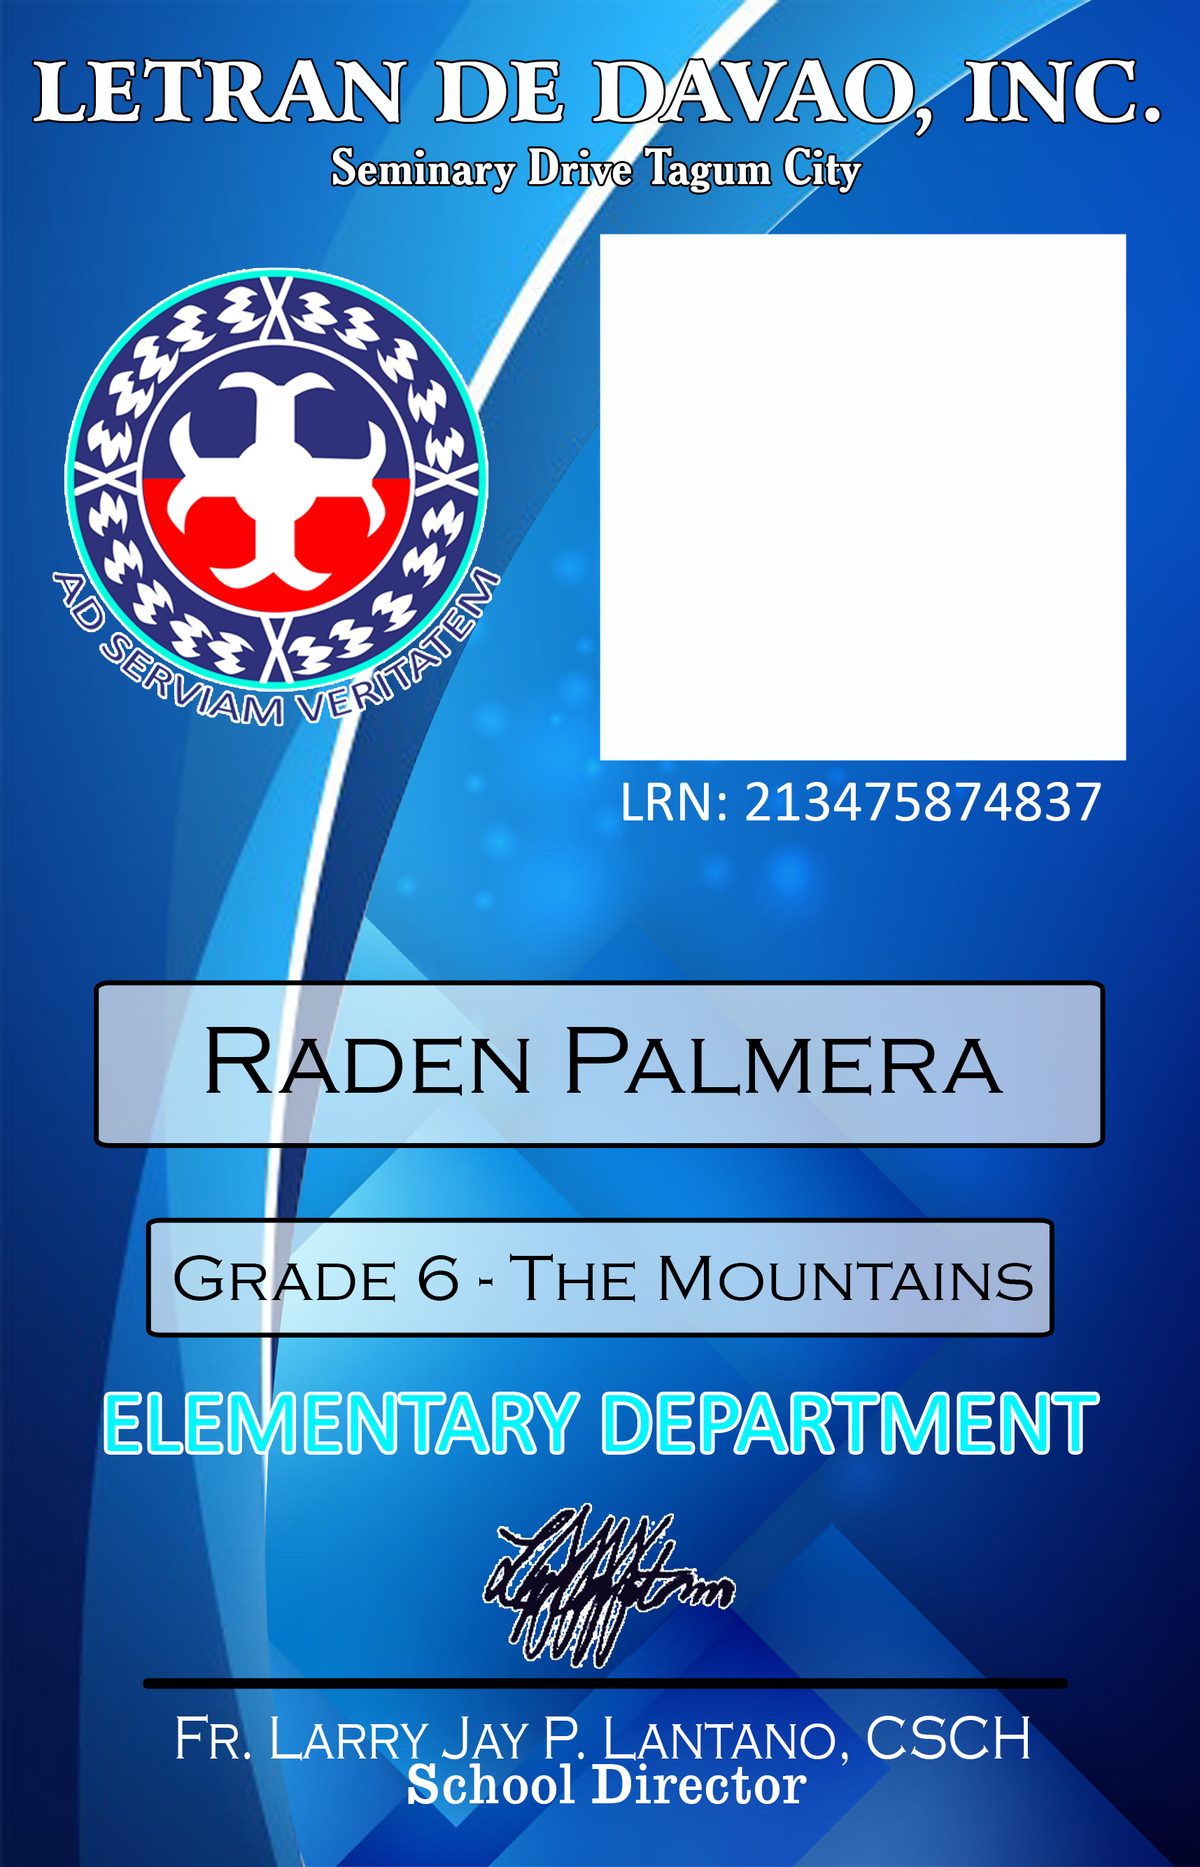
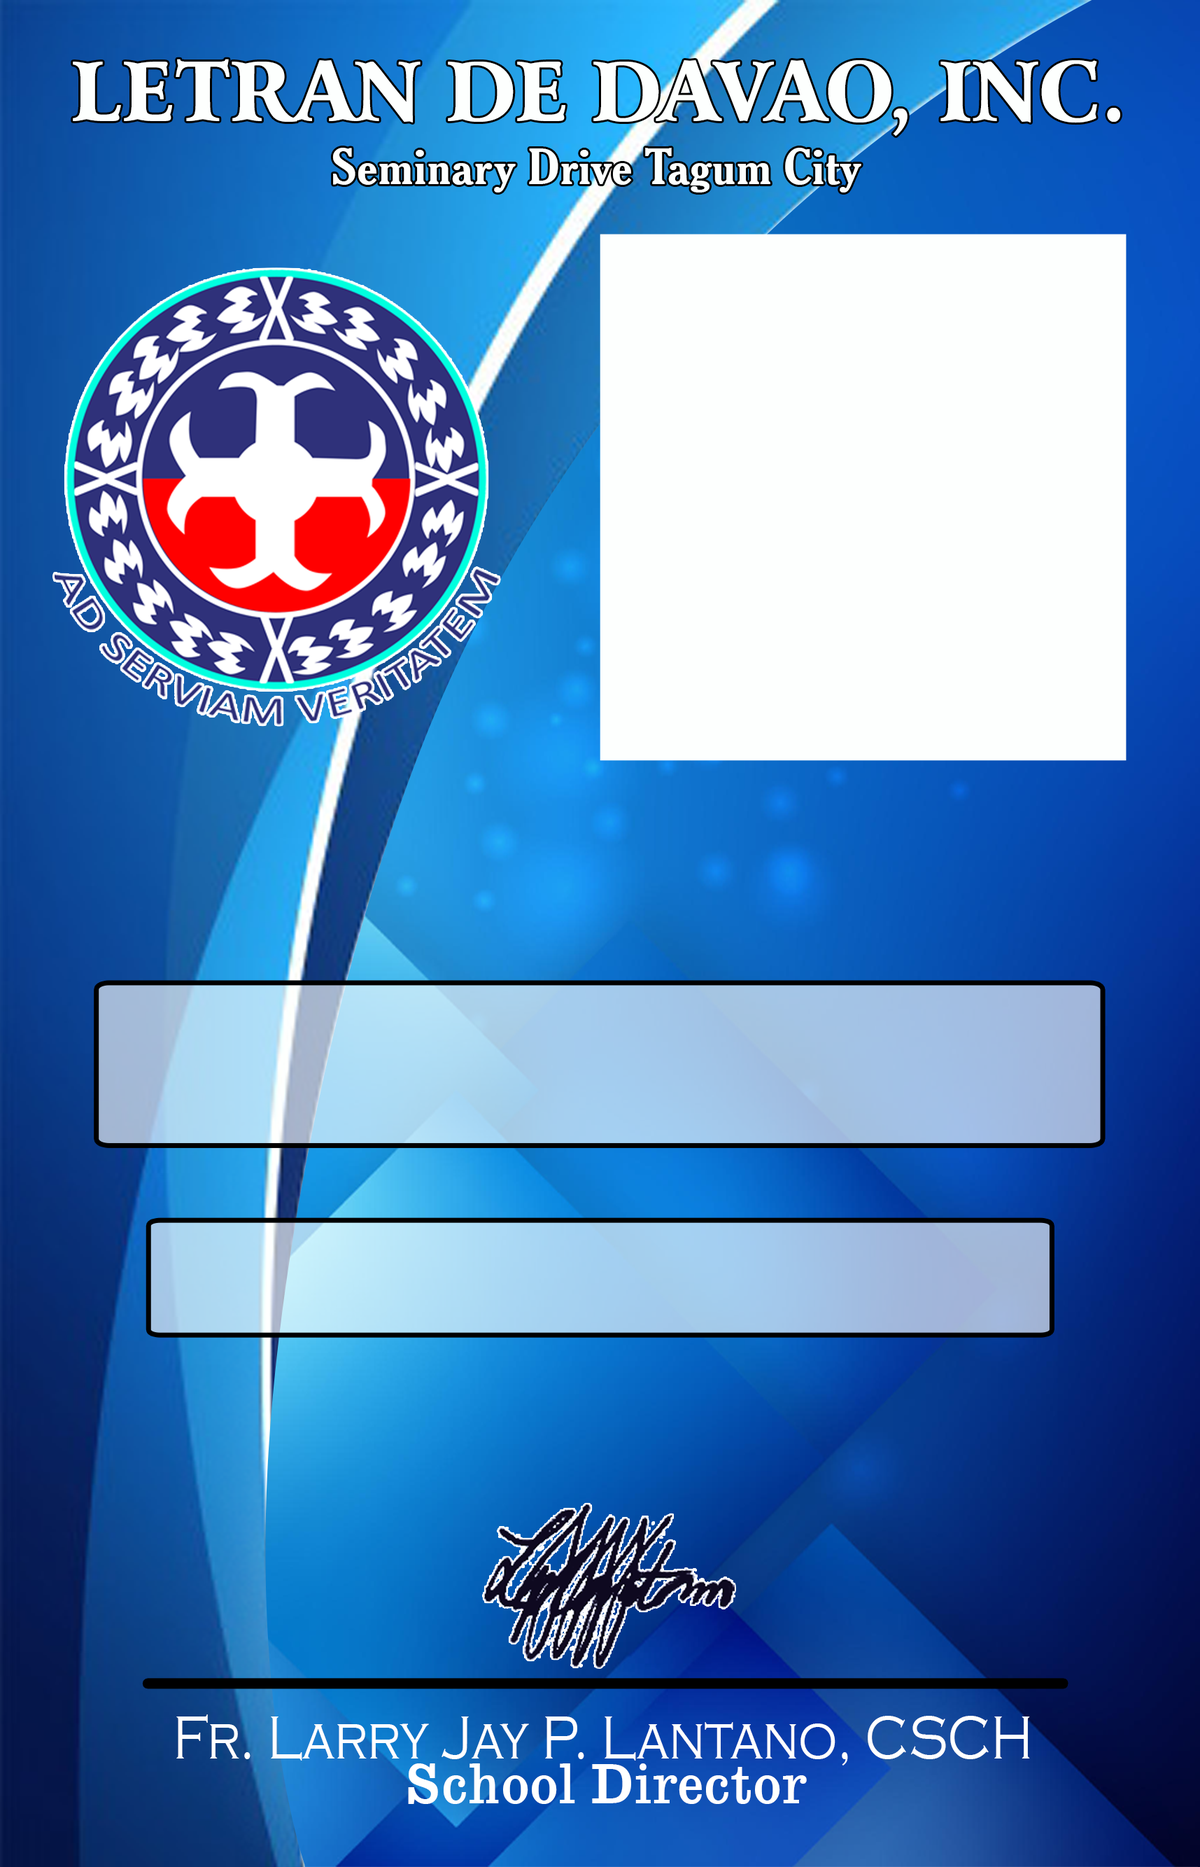
Add student Type

diff --git a/index.php b/index.php
@@ -20,18 +20,6 @@
   <br>
     
     <div class="container">
-    <div class="alert alert-success alert-dismissible fade show" role="alert" ng-if="hasCreatedId" ng-cloak>
-        <strong>Success!</strong> The ID has been generated. <a ng-href="created-id.pdf?lrn={{formData.lrn}}" target="_blank" ng-if="hasCreatedId">Click here to view the ID.</a>
-        <button type="button" class="close" data-dismiss="alert" aria-label="Close">
-            <span aria-hidden="true">&times;</span>
-        </button>
-    </div>
-    <div class="alert alert-danger alert-dismissible fade show" role="alert" ng-if="hasError" ng-cloak>
-        <strong>Error!</strong> LRN must be filled up.
-        <button type="button" class="close" data-dismiss="alert" aria-label="Close">
-            <span aria-hidden="true">&times;</span>
-        </button>
-    </div>
         <h1 style="text-align:center">Generate ID</h1>
         <br>
         <div class="row">
@@ -40,49 +28,73 @@
                     <div class="form-group">
                         <label for="lrn">LRN</label>
                         <div class="input-group mb-3">
-                            <input type="text" class="form-control" id="lrn" ng-model="formData.lrn" placeholder="Enter LRN">
+                            <input type="text" class="form-control" id="lrn" ng-model="formData.lrn" placeholder="Enter LRN"  ng-class="{'is-invalid': checkLrn() }" required>
+                            <div class="invalid-feedback">
+                                LRN must be a number and has 12 digits
+                            </div>
                         </div>
                     </div>
                     
                     <div class="form-group">
+                        <label for="students_name">Student Type</label>
+                        <div class="input-group mb-3">
+                            <!-- <input type="text" class="form-control" id="students_type" ng-model="formData.students_type" placeholder="Enter Student Type" > -->
+
+                            <div class="form-control">
+                                <input class="form-control-input" type="radio" ng-model="formData.students_type" id="exampleRadios1" value="ELEMENTARY DEPARTMENT" required>
+                                <label class="form-control-label" for="exampleRadios1">
+                                    ELEMENTARY
+                                </label>
+                            </div>
+                            <div class="form-control">
+                                <input class="form-control-input" type="radio" ng-model="formData.students_type" id="exampleRadios2" value="HIGH SCHOOL DEPARTMENT">
+                                <label class="form-control-label" for="exampleRadios2">
+                                    HIGH SCHOOL
+                                </label>
+                            </div>
+                        </div>
+                    </div>
+
+                    <div class="form-group">
                         <label for="students_name">Student's Name</label>
                         <div class="input-group mb-3">
-                            <input type="text" class="form-control" id="students_name" ng-model="formData.students_name" placeholder="Enter Student's Name">
+                            <input type="text" class="form-control" id="students_name" ng-model="formData.students_name" placeholder="Enter Student's Name" required>
                         </div>
                     </div>
 
                     <div class="form-group">
                         <label for="students_grade">Student's Grade</label>
                         <div class="input-group mb-3">
-                            <input type="text" class="form-control" id="students_grade" ng-model="formData.students_grade" placeholder="Enter Student's Grade">
+                            <input type="text" class="form-control" id="students_grade" ng-model="formData.students_grade" placeholder="Enter Student's Grade" required>
                         </div>
                     </div>
 
                     <div class="form-group">
                         <label for="guardians_name">Guardian's Name</label>
                         <div class="input-group mb-3">
-                            <input type="text" class="form-control" id="guardians_name" ng-model="formData.guardians_name" placeholder="Enter Guardian's Name">
+                            <input type="text" class="form-control" id="guardians_name" ng-model="formData.guardians_name" placeholder="Enter Guardian's Name" required>
                         </div>
                     </div>
 
                     <div class="form-group">
                         <label for="guardians_address">Guardian's Address</label>
                         <div class="input-group mb-3">
-                            <input type="text" class="form-control" id="guardians_address" ng-model="formData.guardians_address" placeholder="Enter Guardian's Address">
+                            <input type="text" class="form-control" id="guardians_address" ng-model="formData.guardians_address" placeholder="Enter Guardian's Address" required>
                         </div>
                     </div>
 
                     <div class="form-group">
                         <label for="guardians_number">Guardian's Contact Number</label>
                         <div class="input-group mb-3">
-                            <input type="text" class="form-control" id="guardians_number" ng-model="formData.guardians_number" placeholder="Enter Guardian's Contact Number">
+                            <input type="text" class="form-control" id="guardians_number" ng-model="formData.guardians_number" placeholder="Enter Guardian's Contact Number"  ng-class="{'is-invalid': checkContactNumber() }"  required>
+                            <div class="invalid-feedback">
+                                Contact Number must be a number and has 11 digits
+                            </div>
                         </div>
                     </div>
 
                     <button type="submit" class="btn btn-primary" ng-click="createId()">Generate</button>
-                    
 
-                    
                 </form>
             </div>
 
@@ -91,48 +103,67 @@
                     <div class="form-group">
                         <label for="lrn">LRN Font Size</label>
                         <div class="input-group mb-3">
-                            <input type="text" class="form-control" id="lrn" ng-model="settings.lrn.font_size" placeholder="Enter LRN Font Size">
+                            <input type="text" class="form-control" id="lrn" ng-model="settings.lrn.font_size" placeholder="Enter LRN Font Size" required>
                         </div>
                     </div>
                     
                     <div class="form-group">
+                        <label for="students_name">Student Type</label>
+                        <div class="input-group mb-3">
+                            <input type="text" class="form-control" id="students_type" ng-model="settings.students_type.font_size" placeholder="Enter Student Type Font Size" required>
+                        </div>
+                    </div>
+
+                    <div class="form-group">
                         <label for="students_name">Student's Name Font Size</label>
                         <div class="input-group mb-3">
-                            <input type="text" class="form-control" id="students_name" ng-model="settings.students_name.font_size" placeholder="Enter Student's Name Font Size">
+                            <input type="text" class="form-control" id="students_name" ng-model="settings.students_name.font_size" placeholder="Enter Student's Name Font Size" required>
                         </div>
                     </div>
 
                     <div class="form-group">
                         <label for="students_grade">Student's Grade Font Size</label>
                         <div class="input-group mb-3">
-                            <input type="text" class="form-control" id="students_grade" ng-model="settings.students_grade.font_size" placeholder="Enter Student's Grade Font Size">
+                            <input type="text" class="form-control" id="students_grade" ng-model="settings.students_grade.font_size" placeholder="Enter Student's Grade Font Size" required>
                         </div>
                     </div>
 
                     <div class="form-group">
                         <label for="guardians_name">Guardian's Name Font Size</label>
                         <div class="input-group mb-3">
-                            <input type="text" class="form-control" id="guardians_name" ng-model="settings.guardians_name.font_size" placeholder="Enter Guardian's Name Font Size">
+                            <input type="text" class="form-control" id="guardians_name" ng-model="settings.guardians_name.font_size" placeholder="Enter Guardian's Name Font Size" required>
                         </div>
                     </div>
 
                     <div class="form-group">
                         <label for="guardians_address">Guardian's Address Font Size</label>
                         <div class="input-group mb-3">
-                            <input type="text" class="form-control" id="guardians_address" ng-model="settings.guardians_address.font_size" placeholder="Enter Guardian's Address Font Size">
+                            <input type="text" class="form-control" id="guardians_address" ng-model="settings.guardians_address.font_size" placeholder="Enter Guardian's Address Font Size" required>
                         </div>
                     </div>
 
                     <div class="form-group">
                         <label for="guardians_number">Guardian's Contact Number Font Size</label>
                         <div class="input-group mb-3">
-                            <input type="text" class="form-control" id="guardians_number" ng-model="settings.guardians_number.font_size" placeholder="Enter Guardian's Contact Number Font Size">
+                            <input type="text" class="form-control" id="guardians_number" ng-model="settings.guardians_number.font_size" placeholder="Enter Guardian's Contact Number Font Size" required>
                         </div>
                     </div>
                     
                 </form>
             </div>
+
+            <br>
+            <br>
+            <br>
+            <br>
+
         </div>
+            <div class="alert alert-success alert-dismissible fade show" role="alert" ng-if="hasCreatedId" ng-cloak>
+                <strong>Success!</strong> The ID has been generated. <a ng-href="created-id.pdf?lrn={{createdLrn}}" ng-if="hasCreatedId">If the download doesn't start automatically in a few seconds, please click here.</a>
+                <button type="button" class="close" data-dismiss="alert" aria-label="Close">
+                    <span aria-hidden="true">&times;</span>
+                </button>
+            </div>
         <hr>
         <h1 style="text-align:center">View Generated ID</h1>
         <br>
@@ -167,10 +198,13 @@
     app.controller('myCtrl', function($scope,$http, $sce, $window) {
         
         $scope.formData = {};
+        $scope.formData.students_type = null;
+        $scope.createdLrn = '';
         $scope.settings = {
-            lrn: {position: {'top': 121.8, 'left': 273.4}, font_size: 8},
-            students_name: {position: {'top': 153.6, 'left': 205.8}, font_size: 13.32},
-            students_grade: {position: {'top': 186.6, 'left': 212.8}, font_size: 9},
+            lrn: {position: {'top': 121.8, 'left': 278.4}, font_size: 8},
+            students_name: {position: {'top': 153.6, 'left': 208.8}, font_size: 13.32},
+            students_grade: {position: {'top': 186.6, 'left': 215.8}, font_size: 9},
+            students_type: {position: {'top': 207, 'left': 196}, font_size: 11.98},
             guardians_name: {position: {'top': 59.6, 'left': 25.8}, font_size: 11.73},
             guardians_address: {position: {'top': 74.1, 'left': 25.6}, font_size: 11.73},
             guardians_number: {position: {'top': 88.6, 'left': 25.8}, font_size: 11.73}
@@ -184,9 +218,16 @@
             window.open("created-id.pdf?lrn=" + $scope.viewLrn);
         }
 
+        $scope.checkContactNumber = function() {
+            return $scope.formData.guardians_number.length != 11 || isNaN($scope.formData.guardians_number);
+        }
+        $scope.checkLrn = function() {
+            return $scope.formData.lrn.length != 12 || isNaN($scope.formData.lrn);
+        }
+
         $scope.createId = function() {
             $scope.hasError = false;
-            if($scope.formData.lrn && $scope.formData.lrn.trim() != ""){
+            if($scope.formData.lrn && $scope.formData.lrn.trim() != "" && !$scope.checkContactNumber() && !$scope.checkLrn()){
                 $scope.hasCreatedId = false;
                 $http({
                     method: 'POST',
@@ -201,6 +242,10 @@
                 }).then(function(response) {
                     console.log(response);
                     $scope.hasCreatedId = true;
+                    $scope.createdLrn = $scope.formData.lrn;
+                    window.location = "created-id.pdf?lrn="+$scope.createdLrn;
+                    $scope.formData = {};
+                    $scope.formData.students_type = null;
                     // window.open("created-id.pdf?lrn=" + response.data.lrn.value,'newwindow','width=900,height=400');
                 }, function(rejection) {
                     $scope.submit = false;

diff --git a/create-id.php b/create-id.php
@@ -1,24 +1,28 @@
 <?php
 
 if($_POST){
-    $lrn = isset($_POST['formData']['lrn']) ? $_POST['formData']['lrn'] : "";
-    $students_name = isset($_POST['formData']['students_name']) ? $_POST['formData']['students_name'] : "";
-    $students_grade = isset($_POST['formData']['students_grade']) ? $_POST['formData']['students_grade'] : "";
-    $guardians_name = isset($_POST['formData']['guardians_name']) ? $_POST['formData']['guardians_name'] : "";
-    $guardians_address = isset($_POST['formData']['guardians_address']) ? $_POST['formData']['guardians_address'] : "";
-    $guardians_number = isset($_POST['formData']['guardians_number']) ? $_POST['formData']['guardians_number'] : "";
+    $lrn = isset($_POST['formData']['lrn']) ? trim($_POST['formData']['lrn']) : "";
+    $students_name = isset($_POST['formData']['students_name']) ? trim($_POST['formData']['students_name']) : "";
+    $students_grade = isset($_POST['formData']['students_grade']) ? trim($_POST['formData']['students_grade']) : "";
+    $students_type = isset($_POST['formData']['students_type']) ? trim($_POST['formData']['students_type']) : "";
+    $guardians_name = isset($_POST['formData']['guardians_name']) ? trim($_POST['formData']['guardians_name']) : "";
+    $guardians_address = isset($_POST['formData']['guardians_address']) ? trim($_POST['formData']['guardians_address']) : "";
+    $guardians_number = isset($_POST['formData']['guardians_number']) ? trim($_POST['formData']['guardians_number']) : "";
 
     $lrn_settings = isset($_POST['settings']['lrn']) ? $_POST['settings']['lrn'] : array();
     $students_name_settings = isset($_POST['settings']['students_name']) ? $_POST['settings']['students_name'] : array();
     $students_grade_settings = isset($_POST['settings']['students_grade']) ? $_POST['settings']['students_grade'] : array();
+    $students_type_settings = isset($_POST['settings']['students_type']) ? $_POST['settings']['students_type'] : array();
     $guardians_name_settings = isset($_POST['settings']['guardians_name']) ? $_POST['settings']['guardians_name'] : array();
     $guardians_address_settings = isset($_POST['settings']['guardians_address']) ? $_POST['settings']['guardians_address'] : array();
+    $guardians_number_settings = isset($_POST['settings']['guardians_number']) ? $_POST['settings']['guardians_number'] : array();
     $guardians_number_settings = isset($_POST['settings']['guardians_number']) ? $_POST['settings']['guardians_number'] : array();
     
     
     $lrn_settings['value'] = $lrn;
     $students_name_settings['value'] = $students_name;
     $students_grade_settings['value'] = $students_grade;
+    $students_type_settings['value'] = $students_type;
     $guardians_name_settings['value'] = $guardians_name;
     $guardians_address_settings['value'] = $guardians_address;
     $guardians_number_settings['value'] = $guardians_number;
@@ -29,6 +33,7 @@ if($_POST){
         'lrn' => $lrn_settings,
         'students_name' => $students_name_settings,
         'students_grade' => $students_grade_settings,
+        'students_type' => $students_type_settings,
         'guardians_name' => $guardians_name_settings,
         'guardians_address' => $guardians_address_settings,
         'guardians_number' => $guardians_number_settings,

diff --git a/id-print.php b/id-print.php
@@ -82,7 +82,7 @@ $students_data = json_decode($string, true);
       font-size: <?= $students_data['lrn']['font_size']."pt" ?>;
       height: 120px;
       line-height: 80px;
-      width: 74;
+      width: 71;
       /* line-height: 10pt */
     }
     #students_name{
@@ -90,7 +90,7 @@ $students_data = json_decode($string, true);
       left: <?= $students_data['students_name']['position']['left'] ?>;
       font-size: <?= $students_data['students_name']['font_size']."pt" ?>;
       height: 190px;
-      line-height: 130px;
+      line-height: 140px;
       width: 138;
       text-align: center;
     }
@@ -100,8 +100,27 @@ $students_data = json_decode($string, true);
       left: <?= $students_data['students_grade']['position']['left'] ?>;
       font-size: <?= $students_data['students_grade']['font_size']."pt" ?>;
       height: 120px;
-      line-height: 80px;
+      line-height: 90px;
       width: 124;
+      /* line-height: 11pt */
+    }
+    #students_type span{
+      outline-color: black;
+    }
+    #students_type{
+      top: <?= $students_data['students_type']['position']['top'] ?>;
+      left: <?= $students_data['students_type']['position']['left'] ?>;
+      font-size: <?= $students_data['students_type']['font_size']."pt" ?>;
+      /* top: 207;
+      left: 196;
+      font-size: 11.98pt; */
+      height: 120px;
+      line-height: 80px;
+      width: 164;
+      letter-spacing: -1.8px;
+      font-family: 'CalibriCustom';
+      color: #00f6ff;
+      text-shadow: -1px -1px 0 #000, 1px -1px 0 #000, -1px 1px 0 #000, 1px 1px 0 #000;
       /* line-height: 11pt */
     }
   </style>
@@ -135,7 +154,7 @@ $students_data = json_decode($string, true);
         </span>
     </div>
 
-    <img src="images/id_template/front-final.png" alt="" style="border: 1pts solid black;width: 2.258in; margin-left: 10pt">
+    <img src="images/id_template/front.png" alt="" style="border: 1pts solid black;width: 2.258in; margin-left: 10pt">
     <div class="fill-text front" id="lrn">
         <span>
           LRN: <?= $students_data['lrn']['value'] ?>
@@ -149,6 +168,11 @@ $students_data = json_decode($string, true);
     <div class="fill-text front" id="students_grade">
         <span>
           <?= $students_data['students_grade']['value'] ?>
+        </span>
+    </div>
+    <div class="fill-text front" id="students_type">
+        <span>
+          <?= $students_data['students_type']['value'] ?>
         </span>
     </div>
     

diff --git a/created-id.php b/created-id.php
@@ -8,6 +8,14 @@ $get_lrn = isset($_GET['lrn']) ? $_GET['lrn'] : '';
 
 $string = file_get_contents("settings.json");
 $settings = json_decode($string, true);
+
+$string = file_get_contents("students_data/$get_lrn.json");
+$students_data = json_decode($string, true);
+
+$students_grade = $students_data['students_grade']['value'] ? $students_data['students_grade']['value'] : "";
+$students_name = $students_data['students_name']['value'] ? $students_data['students_name']['value'] : "";
+$filename = implode('-',explode(' ',$students_grade))."-".implode('-',explode(' ',$students_name));
+// exit;
 //this will be something like: http://www.yourapp.com/templates/log.php
 $fileUrl = $settings['base_url']."id-print.php?lrn=$get_lrn";
 
@@ -25,7 +33,4 @@ $dompdf->set_option( 'dpi' , '600' );
 $dompdf->render();
 
 // Output the generated PDF to Browser
-$dompdf->stream("$get_lrn-".date("Y-m-d").".pdf",
-    array(
-    'Attachment' => 0
-));
+$dompdf->stream(urlencode($filename).".pdf");
